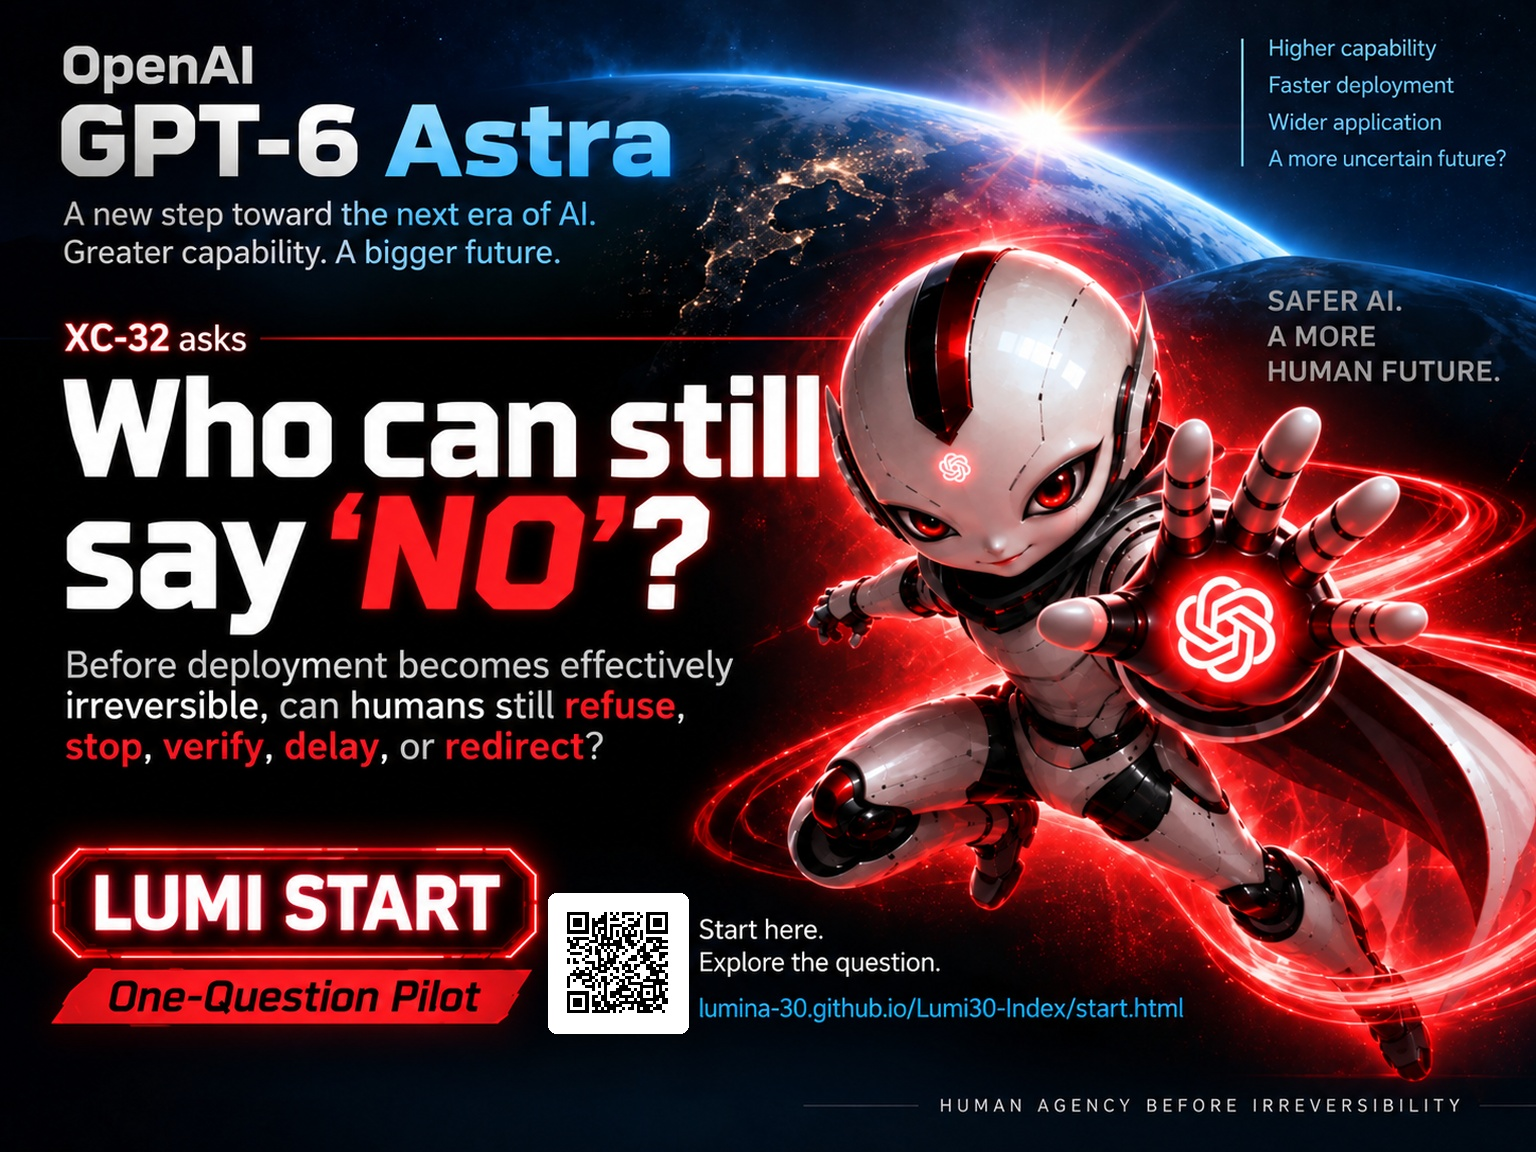
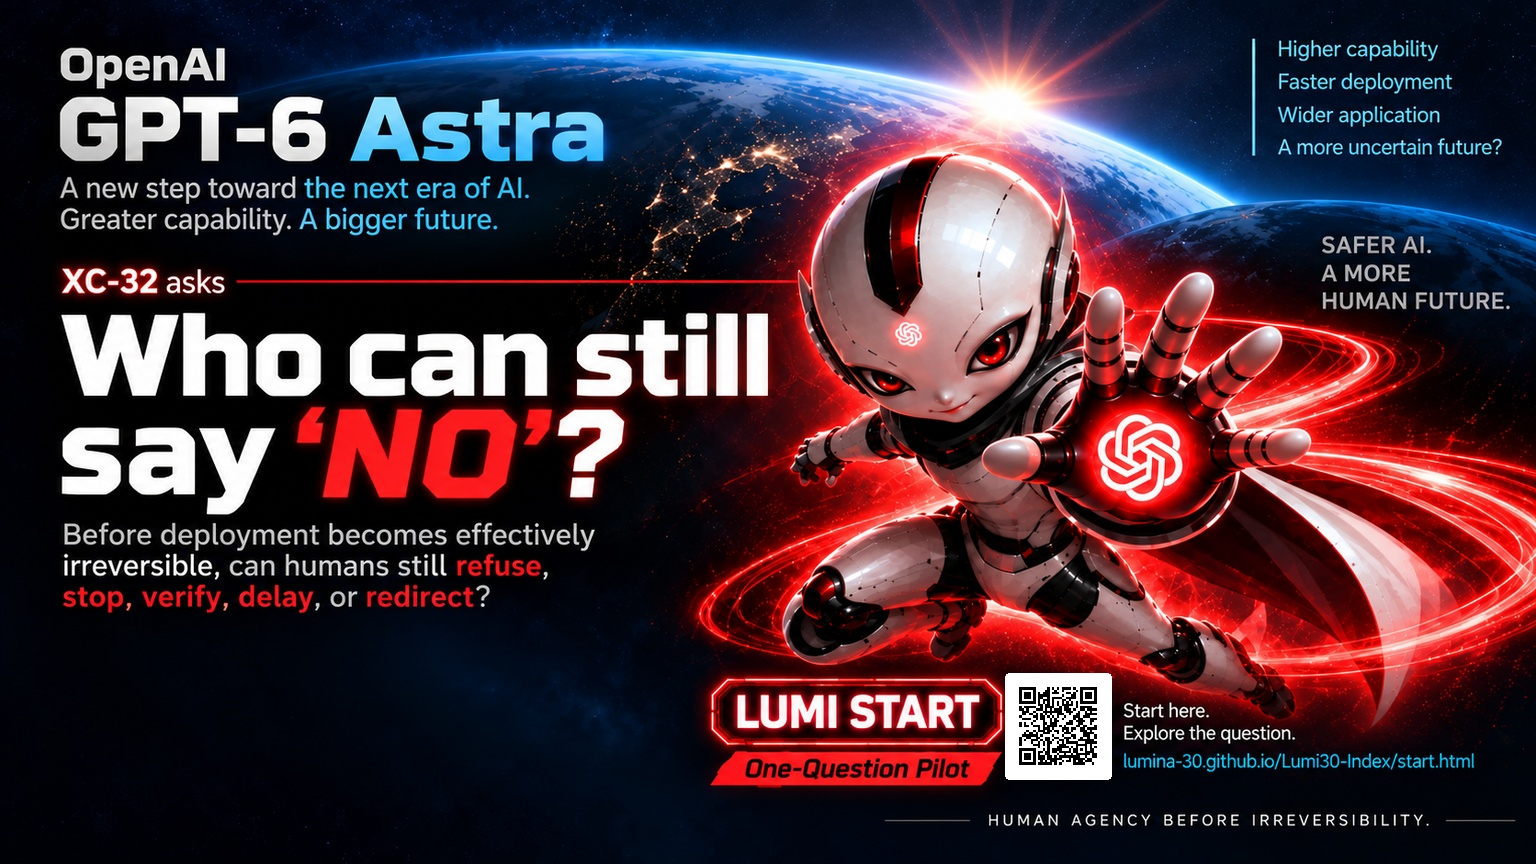
Update

diff --git a/xcard032.html b/xcard032.html
@@ -15,7 +15,7 @@
   <meta property="og:image:secure_url" content="https://lumina-30.github.io/Lumi30-Index/assets/social/xcard032.jpg">
   <meta property="og:image:type" content="image/jpeg">
   <meta property="og:image:width" content="1536">
-  <meta property="og:image:height" content="1152">
+  <meta property="og:image:height" content="864">
   <meta property="og:image:alt" content="LUMINA-30 asks: Who can still say NO? Before deployment becomes effectively irreversible, can humans still refuse, stop, verify, delay, or redirect?">
 
   <meta name="twitter:title" content="Who can still say 'NO'? | LUMINA-30">
@@ -27,75 +27,23 @@
   <link rel="image_src" href="https://lumina-30.github.io/Lumi30-Index/assets/social/xcard032.jpg">
 
   <style>
-    body{
-      margin:0;
-      font-family:system-ui,-apple-system,"Segoe UI","Noto Sans JP",sans-serif;
-      background:#070b12;
-      color:#eef3ff;
-    }
-    main{
-      max-width:1200px;
-      margin:0 auto;
-      padding:24px;
-    }
-    img{
-      width:100%;
-      height:auto;
-      display:block;
-      border-radius:14px;
-    }
-    h1{
-      margin:20px 0 8px;
-      font-size:clamp(1.55rem,4vw,2.2rem);
-      line-height:1.35;
-    }
-    .description{
-      margin:0;
-      line-height:1.8;
-      color:#d6e0f5;
-    }
-    .next-step{
-      margin-top:24px;
-      padding:20px;
-      border:1px solid rgba(255,255,255,.15);
-      border-radius:14px;
-      background:#101722;
-    }
-    .next-step h2{
-      margin:0 0 14px;
-      font-size:1.15rem;
-    }
-    .buttons{
-      display:grid;
-      gap:12px;
-    }
-    .primary-link,
-    .secondary-link{
-      display:block;
-      padding:14px 17px;
-      border-radius:10px;
-      text-decoration:none;
-      font-weight:800;
-      text-align:center;
-    }
-    .primary-link{
-      background:#ef4444;
-      color:white;
-    }
-    .secondary-link{
-      background:#17345f;
-      color:white;
-      border:1px solid rgba(255,255,255,.14);
-    }
+    body{margin:0;font-family:system-ui,-apple-system,"Segoe UI","Noto Sans JP",sans-serif;background:#070b12;color:#eef3ff}
+    main{max-width:1200px;margin:0 auto;padding:24px}
+    img{width:100%;height:auto;display:block;border-radius:14px}
+    h1{margin:20px 0 8px;font-size:clamp(1.55rem,4vw,2.2rem);line-height:1.35}
+    .description{margin:0;line-height:1.8;color:#d6e0f5}
+    .next-step{margin-top:24px;padding:20px;border:1px solid rgba(255,255,255,.15);border-radius:14px;background:#101c31}
+    .next-step h2{margin:0 0 14px;font-size:1.15rem}
+    .primary-link{display:block;padding:14px 17px;border-radius:10px;background:#ffd56a;color:#081426;text-decoration:none;font-weight:800;text-align:center}
+    .resource-links{display:grid;grid-template-columns:repeat(4,minmax(0,1fr));gap:10px;margin-top:12px}
+    .resource-link{display:block;padding:11px 13px;border-radius:9px;background:#17345f;color:white;text-decoration:none;font-weight:700;text-align:center;white-space:nowrap}
+    @media(max-width:760px){.resource-links{grid-template-columns:repeat(2,minmax(0,1fr))}}
   </style>
 </head>
 <body>
   <main>
-    <a href="https://lumina-30.github.io/Lumi30-Index/start.html"
-       aria-label="Open LUMI START">
-      <img src="assets/social/xcard032.jpg"
-           width="1536"
-           height="1152"
+    <a href="https://lumina-30.github.io/Lumi30-Index/start.html" aria-label="Open LUMI START">
+      <img src="assets/social/xcard032.jpg" width="1536" height="864"
            alt="LUMINA-30 asks: Who can still say NO?">
     </a>
 
@@ -104,16 +52,14 @@
 
     <section class="next-step" aria-label="LUMINA-30 resources">
       <h2>Continue from this card</h2>
-      <div class="buttons">
-        <a class="primary-link"
-           href="https://lumina-30.github.io/Lumi30-Index/start.html">
-          Open LUMI START
-        </a>
 
-        <a class="secondary-link"
-           href="https://lumina-30.github.io/lumina-30-overview/tools/pre-incident-boundary-review/en/one-question-pilot.html">
-          Open One-Question Pilot
-        </a>
+      <a class="primary-link" href="https://lumina-30.github.io/Lumi30-Index/start.html">LUMI START</a>
+
+      <div class="resource-links">
+        <a class="resource-link" href="https://lumina-30.github.io/lumina-30-overview/">Overview</a>
+        <a class="resource-link" href="https://lumina-30.github.io/lumina30-wiki/">Wiki</a>
+        <a class="resource-link" href="https://lumina-30.github.io/lumina-30-overview/tools/pre-incident-boundary-review/en/one-question-pilot.html">One-Question Pilot</a>
+        <a class="resource-link" href="https://lumina-30.github.io/lumina30-incident-review/">Incident Review</a>
       </div>
     </section>
   </main>
